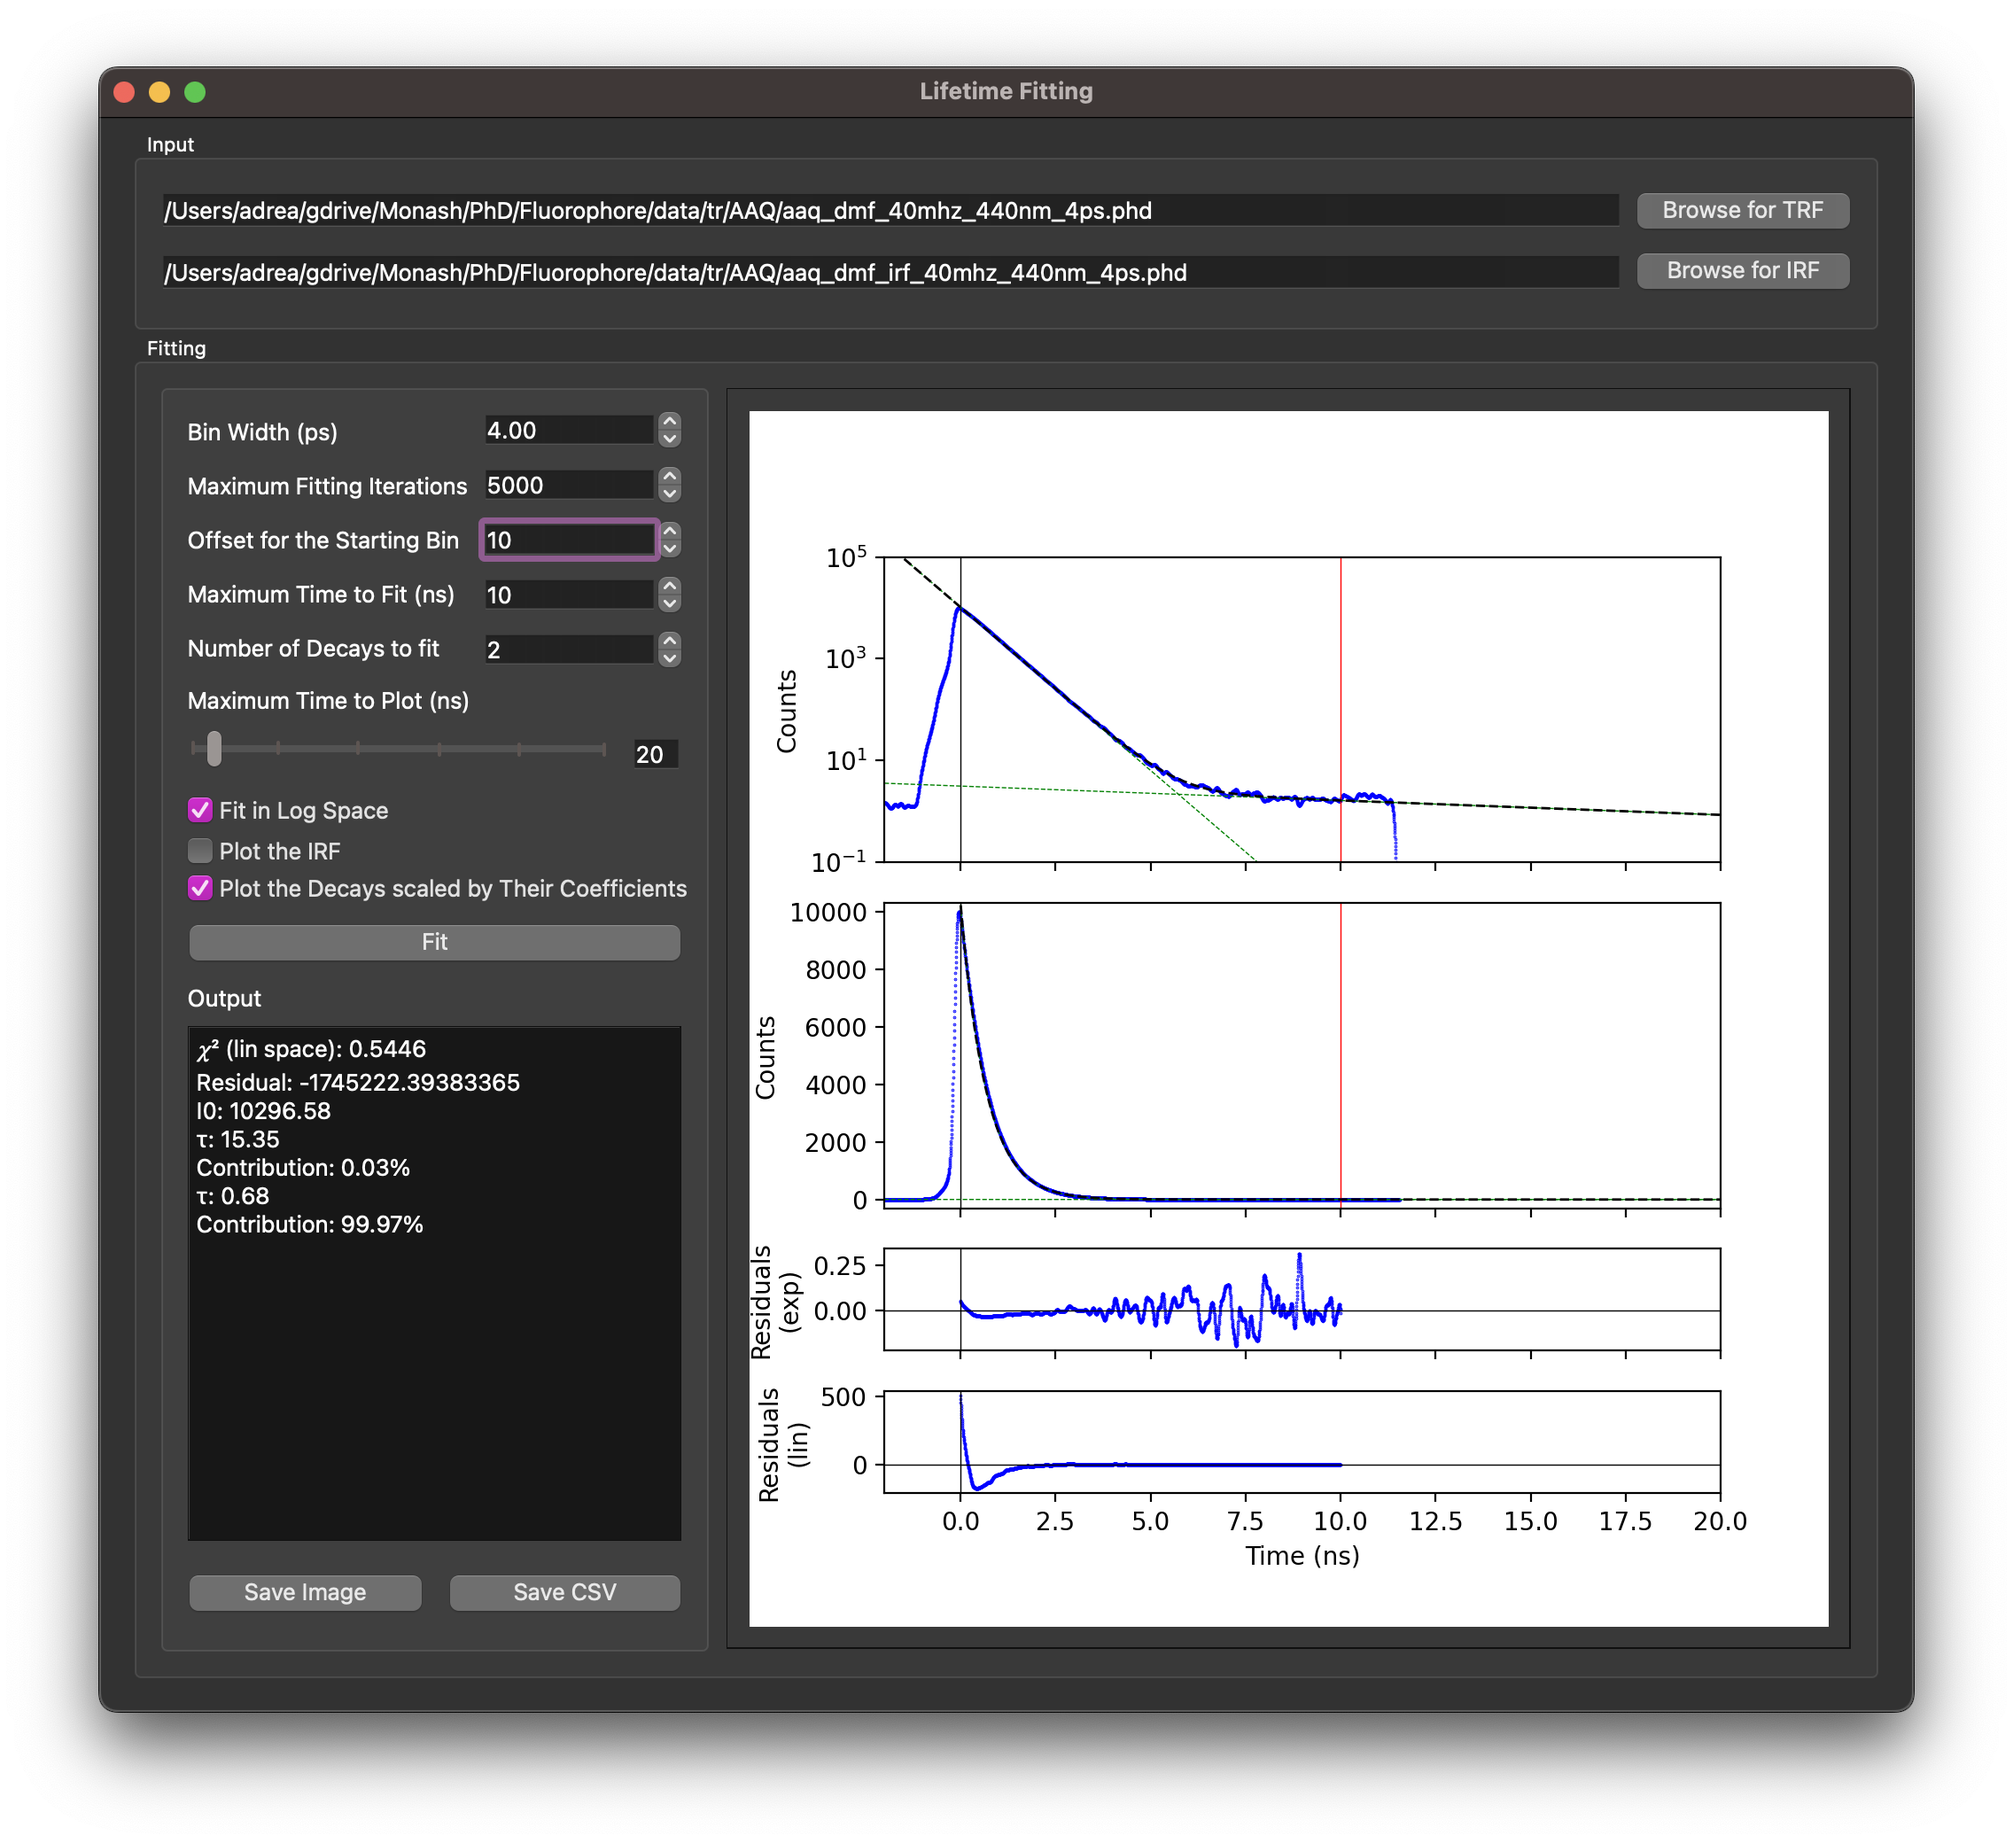
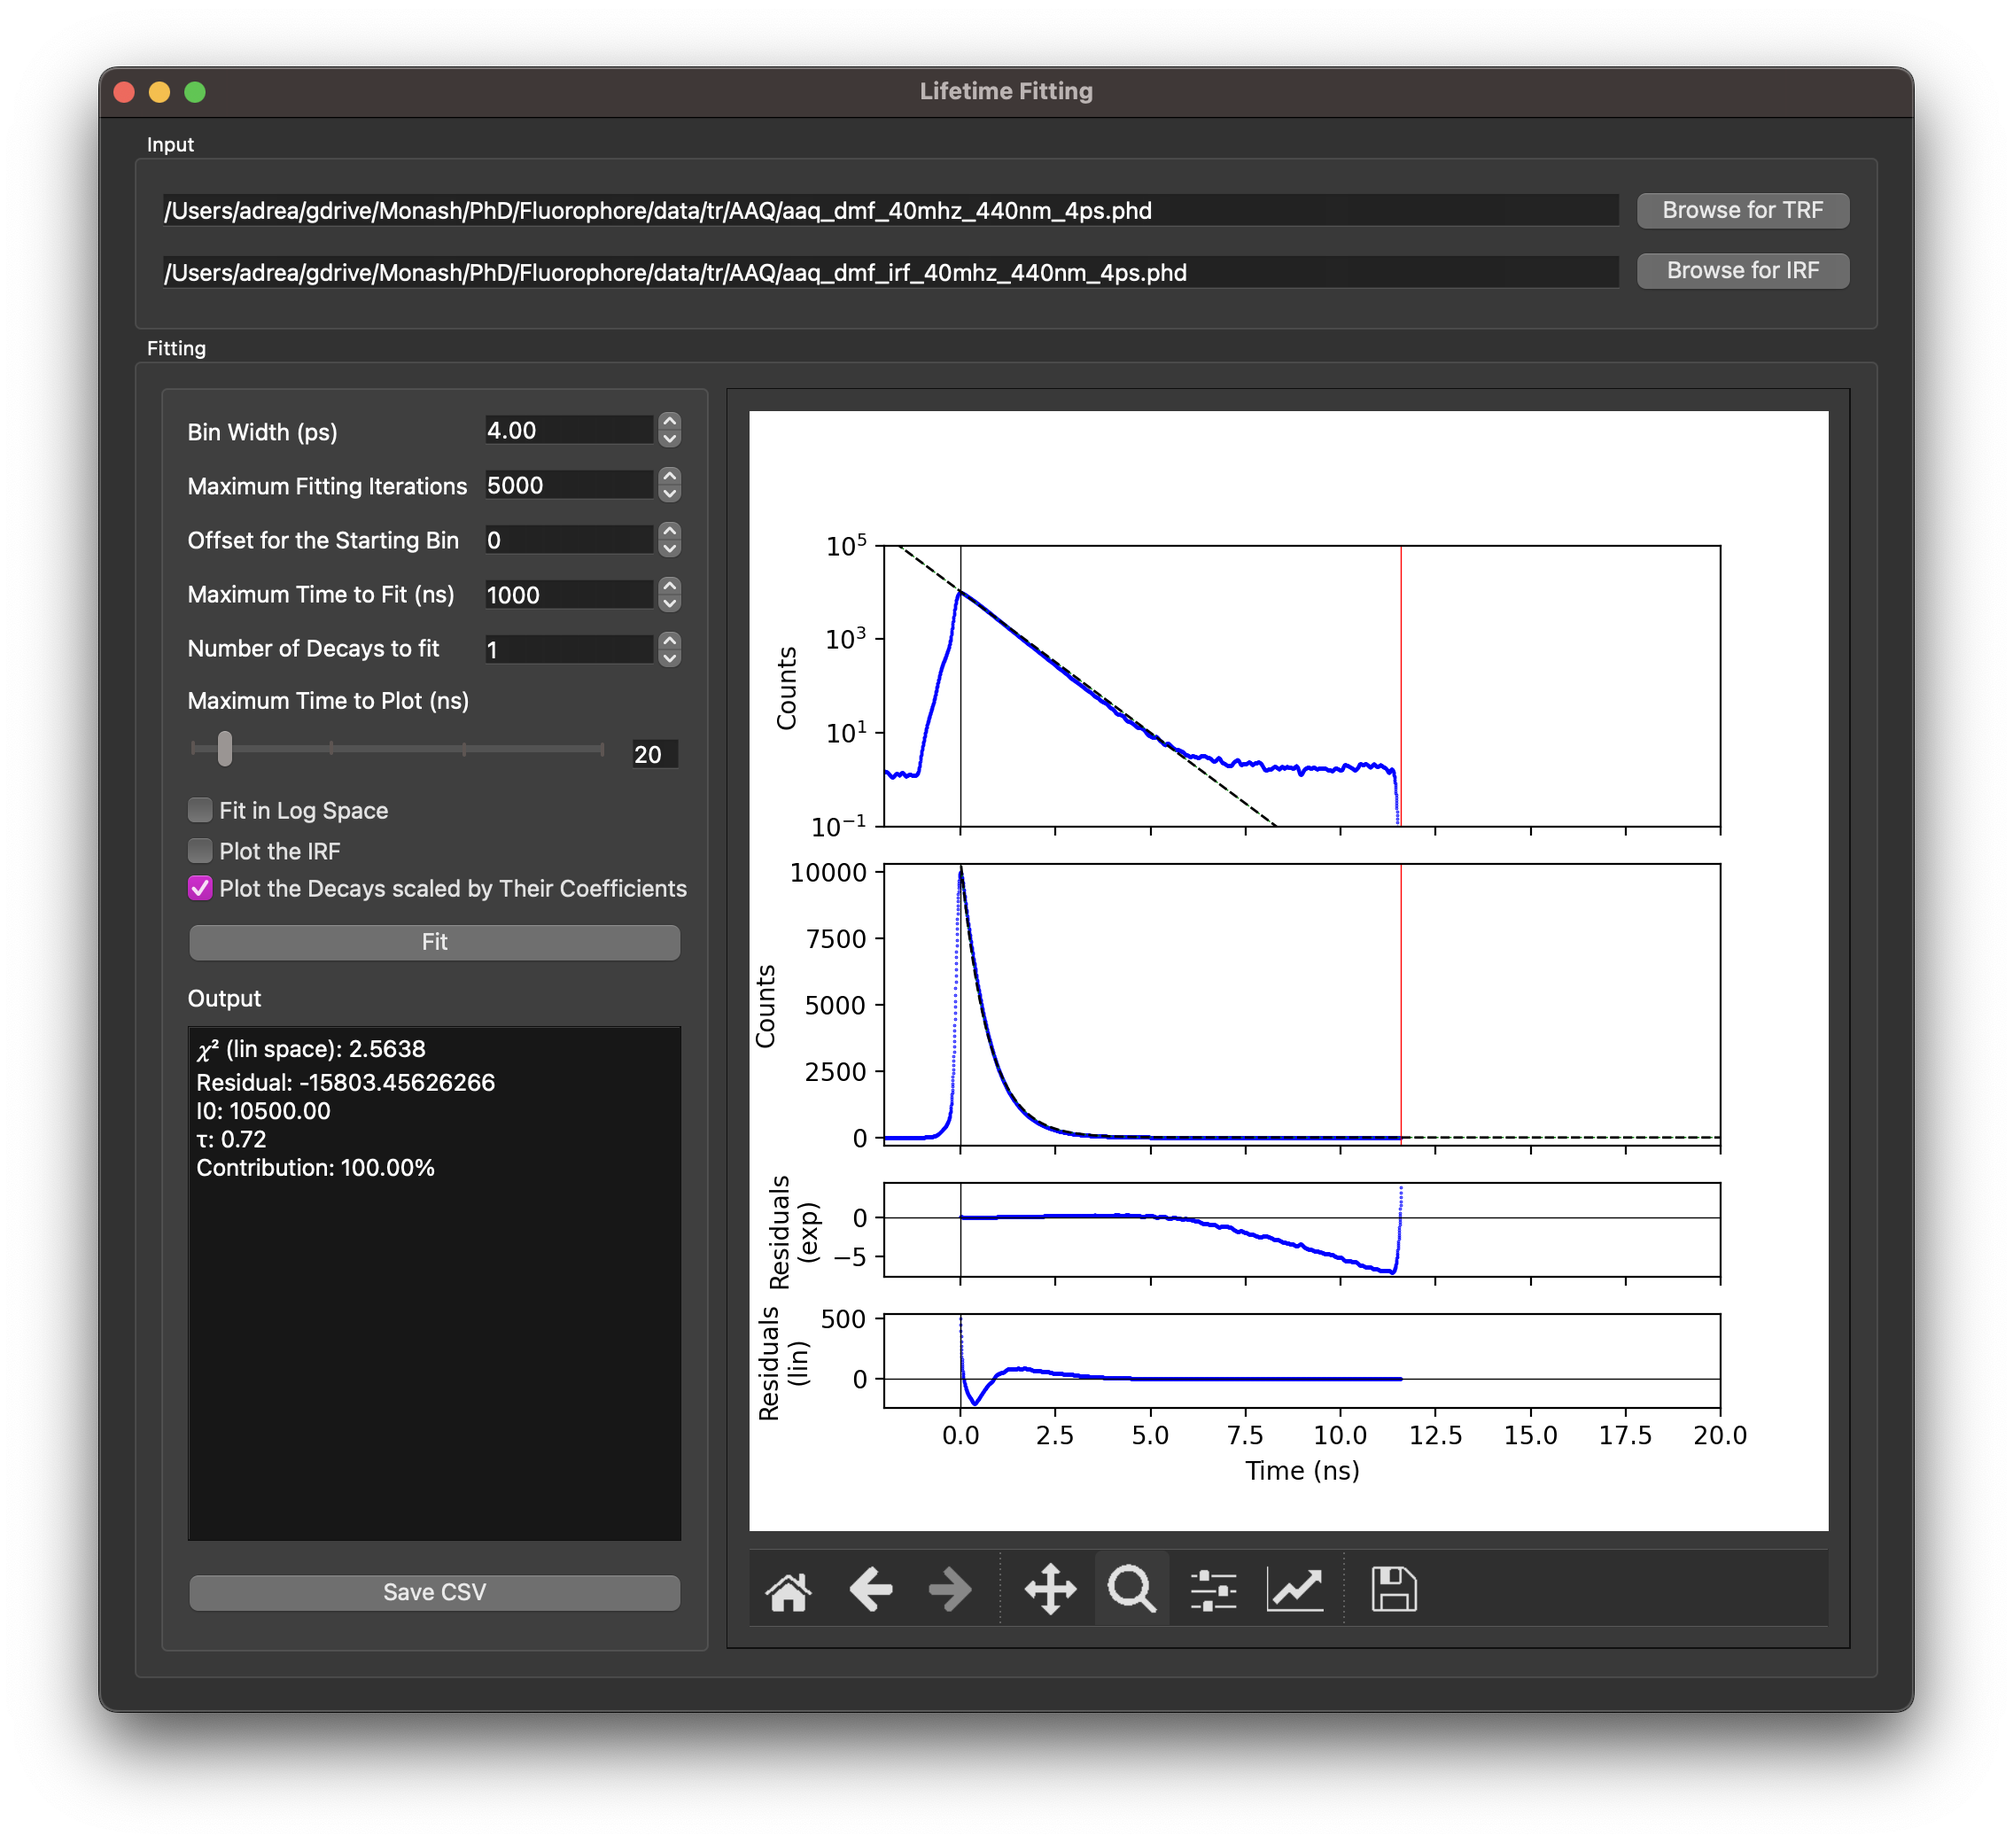
added mpl toolbar

diff --git a/app/lifetimefitting/funcs/gui.py b/app/lifetimefitting/funcs/gui.py
@@ -1,4 +1,4 @@
-from PyQt6 import QtCore, QtWidgets
+from PyQt6 import QtCore, QtGui, QtWidgets
 
 
 class Ui_Form(object):
@@ -121,7 +121,7 @@ class Ui_Form(object):
         self.horizontalLayout_6 = QtWidgets.QHBoxLayout()
         self.horizontalLayout_6.setObjectName("horizontalLayout_6")
         self.max_x = QtWidgets.QSlider(parent=self.verticalGroupBox)
-        self.max_x.setMaximum(500)
+        self.max_x.setMaximum(300)
         self.max_x.setProperty("value", 20)
         self.max_x.setSliderPosition(20)
         self.max_x.setOrientation(QtCore.Qt.Orientation.Horizontal)
@@ -133,8 +133,8 @@ class Ui_Form(object):
         self.horizontalLayout_6.addWidget(self.max_x)
         self.max_x_out = QtWidgets.QSpinBox(parent=self.verticalGroupBox)
         self.max_x_out.setButtonSymbols(QtWidgets.QAbstractSpinBox.ButtonSymbols.NoButtons)
-        self.max_x_out.setMaximum(500)
-        self.max_x_out.setValue(20)
+        self.max_x_out.setMaximum(300)
+        self.max_x_out.setProperty("value", 20)
         self.max_x_out.setObjectName("max_x_out")
         self.horizontalLayout_6.addWidget(self.max_x_out)
         self.verticalLayout_5.addLayout(self.horizontalLayout_6)
@@ -175,10 +175,6 @@ class Ui_Form(object):
         self.verticalLayout_5.addWidget(self.text_output)
         self.horizontalLayout_3 = QtWidgets.QHBoxLayout()
         self.horizontalLayout_3.setObjectName("horizontalLayout_3")
-        self.plot_browse = QtWidgets.QPushButton(parent=self.verticalGroupBox)
-        self.plot_browse.setAcceptDrops(True)
-        self.plot_browse.setObjectName("plot_browse")
-        self.horizontalLayout_3.addWidget(self.plot_browse)
         self.csv_browse = QtWidgets.QPushButton(parent=self.verticalGroupBox)
         self.csv_browse.setAcceptDrops(True)
         self.csv_browse.setObjectName("csv_browse")
@@ -218,5 +214,4 @@ class Ui_Form(object):
         self.scaled_widg.setText(_translate("Form", "Plot the Decays scaled by Their Coefficients"))
         self.fit_button.setText(_translate("Form", "Fit"))
         self.label_4.setText(_translate("Form", "Output"))
-        self.plot_browse.setText(_translate("Form", "Save Image"))
         self.csv_browse.setText(_translate("Form", "Save CSV"))

diff --git a/app/lifetimefitting/__main__.py b/app/lifetimefitting/__main__.py
@@ -2,6 +2,7 @@ import matplotlib.pyplot as plt
 from PyQt6 import QtWidgets
 from PyQt6.QtWidgets import QFileDialog
 from matplotlib.backends.backend_qt5agg import FigureCanvasQTAgg as FigureCanvas
+from matplotlib.backends.backend_qt5agg import NavigationToolbar2QT as NavigationToolbar
 from phdimporter import TRF
 from funcs.gui import Ui_Form
 from funcs.fittingFuncs import loadAndCull, fitFL
@@ -39,11 +40,13 @@ def update_max_x_from_out():
     ui.max_x.setValue(ui.max_x_out.value())
 
 def setupPlot():
-    ui.horizontalLayout_plot = QtWidgets.QHBoxLayout(ui.frame)
-    ui.horizontalLayout_plot.setObjectName("horizontalLayout_plot")
+    ui.verticalLayout_plot = QtWidgets.QVBoxLayout(ui.frame)
+    ui.verticalLayout_plot.setObjectName("verticalLayout_plot")
     ui.figure, (ui.ax1, ui.ax3, ui.ax2, ui.ax4) = plt.subplots(4, 1, figsize=(8, 10), sharex=True, height_ratios=[3, 3, 1, 1])
     ui.canvas = FigureCanvas(ui.figure)
-    ui.horizontalLayout_plot.addWidget(ui.canvas)
+    ui.toolbar = NavigationToolbar(ui.canvas)
+    ui.verticalLayout_plot.addWidget(ui.canvas)
+    ui.verticalLayout_plot.addWidget(ui.toolbar)
     ui.axList = []
 
     # log plot
@@ -65,12 +68,6 @@ def setupPlot():
     ui.ax4.axvline(0, c='k', lw=0.5)
     ui.ax4.axhline(0, c='k', lw=0.5)
 
-def savePlot():
-    save_plot_dialog = QFileDialog()
-    name = save_plot_dialog.getSaveFileName(filter="PNG Image (*.png);;SVG Image (*.svg);;PDF Document (*.pdf)")[0]
-    if name != '':
-        plt.savefig(name, dpi=900)
-
 def saveCSV():
     global csv
     if 'csv' in globals():
@@ -91,7 +88,6 @@ if __name__ == "__main__":
     file_dialog = QFileDialog()
     ui.trf_browse.clicked.connect(trf_browse)
     ui.irf_browse.clicked.connect(irf_browse)
-    ui.plot_browse.clicked.connect(savePlot)
     ui.csv_browse.clicked.connect(saveCSV)
     ui.max_x.sliderMoved.connect(update_max_x)
     ui.max_x_out.valueChanged.connect(update_max_x_from_out)

diff --git a/app/lifetimefitting/funcs/fittingFuncs.py b/app/lifetimefitting/funcs/fittingFuncs.py
@@ -48,7 +48,7 @@ def fitLifetime(ui, x, y, maxIter):
     if ui.logFit_widg.isChecked():
         y = np.log(y)
         fitFunc = FLLinFuncList[expCount]
- 
+
     for i in range(expCount):
         minbounds += [0,     0]
         maxbounds += [99999999, 1]
@@ -65,7 +65,6 @@ def fitLifetime(ui, x, y, maxIter):
     return popt, residual
 
 def fitFL(ui, plot=True, x_in=None, y_in=None, irf_in=None) -> None:
-    
     csv = 'x,y_lin,y_log\n'
     csvTail = '\n'
     outPrint = ''
@@ -198,7 +197,6 @@ def fitFL(ui, plot=True, x_in=None, y_in=None, irf_in=None) -> None:
         ui.axList += [ui.ax2.scatter(x, residualList, s=0.1, c='b')]
         residualList = np.subtract(FLFuncList[expCount](x, *popt), y,)
         ui.axList += [ui.ax4.scatter(x, residualList, s=0.1, c='b')]
-        
 
         ui.canvas.draw()
         ui.text_output.setText(outPrint)
